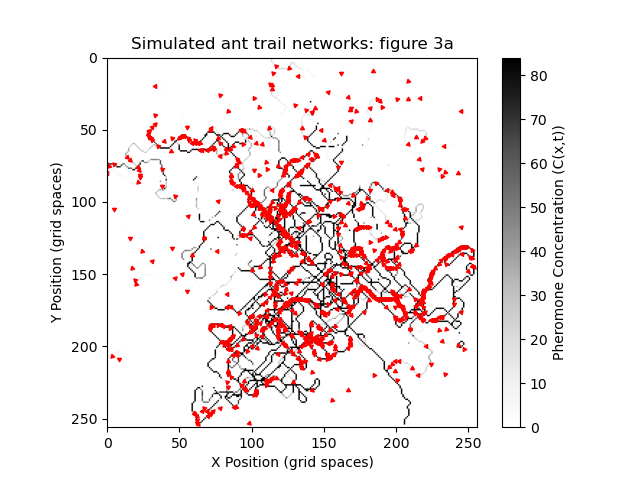
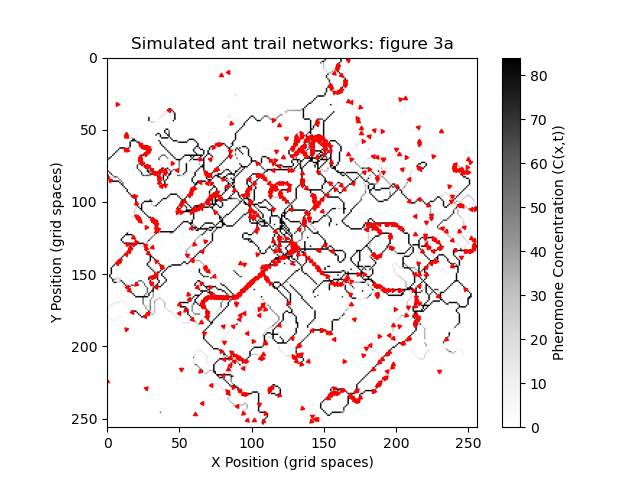
Re-run main.py for update figures, add figures and F, L, F/L values to README

diff --git a/README.md b/README.md
@@ -66,11 +66,11 @@ Constant parameters across all figures: `tau = 8, grid_size = 256, num_steps = 1
   <tr>
     <td align="center">
       <img src="images/3a_paper.png" height="400"><br>
-      Figure 3a from paper, F = 468, L = 32 (p 361) 
+      Figure 3a from paper, F = 468, L = 32, F/L = 14.625 (p 361) 
     </td>
     <td align="center">
-      <img src="images/3a_thisrepo.png" height="400"><br>
-      Simulated result, F = 1386, L = 114
+      <img src="images/3a_thisrepo_UPDATED.png" height="400"><br>
+      Simulated result, F = 833, L = 667, F/L = 1.248
     </td>
   </tr>
 </table>
@@ -81,11 +81,11 @@ Constant parameters across all figures: `tau = 8, grid_size = 256, num_steps = 1
   <tr>
     <td align="center">
       <img src="images/3b_paper.png" height="400"><br>
-      Figure 3b from paper, F = 396, L = 89 (p 361) 
+      Figure 3b from paper, F = 396, L = 89, F/L = 4.449 (p 361) 
     </td>
     <td align="center">
-      <img src="images/3b_thisrepo.png" height="400"><br>
-      Simulated result, F = 1157, L = 343
+      <img src="images/3b_thisrepo_UPDATED.png" height="400"><br>
+      Simulated result, F = 842, L = 658, F/L = 1.279
     </td>
   </tr>
 </table>
@@ -95,11 +95,11 @@ Constant parameters across all figures: `tau = 8, grid_size = 256, num_steps = 1
   <tr>
     <td align="center">
       <img src="images/3c_paper.png" height="400"><br>
-      Figure 3c from paper, F = 297, L = 91 (p 362)
+      Figure 3c from paper, F = 297, L = 91, F/L = 3.263 (p 362)
     </td>
     <td align="center">
-      <img src="images/3c_thisrepo.png" height="400"><br>
-      Simulated result, F = 1077, L = 423
+      <img src="images/3c_thisrepo_UPDATED.png" height="400"><br>
+      Simulated result, F = 760, L = 740, F/L = 1.027
     </td>
   </tr>
 </table>
